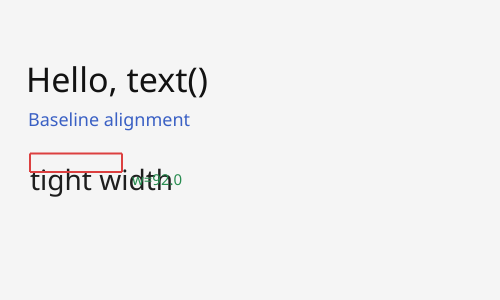
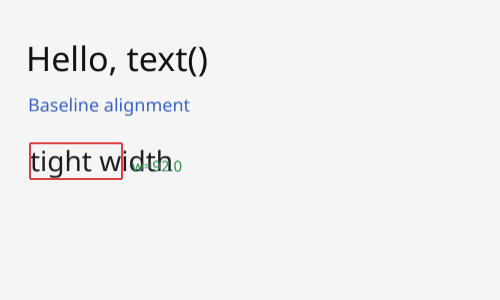
more iterations

Changed region(s): [[0.06, 0.15, 0.42, 0.45], [0.06, 0.45, 0.39, 0.66]]

diff --git a/apps/deno-notebooks/tools/p5_deno_shim.ts b/apps/deno-notebooks/tools/p5_deno_shim.ts
@@ -64,6 +64,10 @@ type CreateCanvasFn = (w: number, h: number) => {
   dispose?: () => void;
 };
 
+type CanvasFontsLike = {
+  register: (pathOrData: string | Uint8Array, alias?: string) => void;
+};
+
 // ─── SimpleEventTarget ───────────────────────────────────────────────────
 
 class SimpleEventTarget {
@@ -427,6 +431,62 @@ class MockDomElement {
 // document.createElement('canvas'), gets a 2D context, and draws through it.
 
 let _createCanvasFn: CreateCanvasFn | null = null;
+let _bundledNotoBytes: Uint8Array | null = null;
+
+function patchP5TextMetrics(p5Ctor: { prototype?: Record<string, unknown> }): void {
+  const proto = p5Ctor.prototype;
+  if (!proto) return;
+  if ((proto as { __textMetricsPatched?: boolean }).__textMetricsPatched) return;
+
+  const originalTextAscent = typeof proto.textAscent === "function"
+    ? proto.textAscent as (...args: unknown[]) => unknown
+    : null;
+  const originalTextDescent = typeof proto.textDescent === "function"
+    ? proto.textDescent as (...args: unknown[]) => unknown
+    : null;
+
+  const getMetrics = (self: Record<string, unknown>, sample: string): TextMetrics | null => {
+    const direct = self.drawingContext as CanvasRenderingContext2D | undefined;
+    if (direct?.measureText) return direct.measureText(sample);
+    const renderer = self._renderer as { drawingContext?: CanvasRenderingContext2D } | undefined;
+    if (renderer?.drawingContext?.measureText) return renderer.drawingContext.measureText(sample);
+    return null;
+  };
+
+  proto.textAscent = function (this: Record<string, unknown>, text?: unknown): number {
+    const sample = text === undefined ? "Mg" : String(text);
+    const metrics = getMetrics(this, sample);
+    if (metrics) {
+      const asc = Number(metrics.actualBoundingBoxAscent);
+      if (Number.isFinite(asc) && asc > 0) return asc;
+      const fallback = Number(metrics.fontBoundingBoxAscent);
+      if (Number.isFinite(fallback) && fallback > 0) return fallback;
+    }
+    if (originalTextAscent) {
+      const fallback = Number(originalTextAscent.call(this, text));
+      if (Number.isFinite(fallback) && fallback > 0) return fallback;
+    }
+    return 0;
+  };
+
+  proto.textDescent = function (this: Record<string, unknown>, text?: unknown): number {
+    const sample = text === undefined ? "Mg" : String(text);
+    const metrics = getMetrics(this, sample);
+    if (metrics) {
+      const desc = Number(metrics.actualBoundingBoxDescent);
+      if (Number.isFinite(desc) && desc > 0) return desc;
+      const fallback = Number(metrics.fontBoundingBoxDescent);
+      if (Number.isFinite(fallback) && fallback > 0) return fallback;
+    }
+    if (originalTextDescent) {
+      const fallback = Number(originalTextDescent.call(this, text));
+      if (Number.isFinite(fallback) && fallback > 0) return fallback;
+    }
+    return 0;
+  };
+
+  (proto as { __textMetricsPatched?: boolean }).__textMetricsPatched = true;
+}
 
 class P5CanvasShim extends (CanvasBase as new () => object) {
   // @gfx/canvas backing
@@ -809,6 +869,21 @@ export async function setupP5Deno(
   console.log("Loading @gfx/canvas (FFI/Skia)...");
   const canvasMod = await import("@gfx/canvas");
   _createCanvasFn = canvasMod.createCanvas as unknown as CreateCanvasFn;
+  {
+    const maybeFonts = (canvasMod as Record<string, unknown>).Fonts as CanvasFontsLike | undefined;
+    if (maybeFonts?.register) {
+      const bundledNotoPath = new URL("../assets/fonts/NotoSans-Regular.ttf", import.meta.url);
+      try {
+        if (!_bundledNotoBytes) {
+          _bundledNotoBytes = await Deno.readFile(bundledNotoPath);
+        }
+        maybeFonts.register(_bundledNotoBytes, "Noto Sans");
+        console.log("Registered bundled font: Noto Sans");
+      } catch (err) {
+        console.warn(`Failed to register bundled font ${bundledNotoPath}:`, err);
+      }
+    }
+  }
   console.log("@gfx/canvas loaded!");
 
   // 2. Set window dimensions so p5 can read them
@@ -820,6 +895,7 @@ export async function setupP5Deno(
   const p5Module = await import("p5");
   const p5 = p5Module.default;
   (p5 as unknown as Record<string, boolean>).disableFriendlyErrors = true;
+  patchP5TextMetrics(p5 as unknown as { prototype?: Record<string, unknown> });
   console.log("p5.js loaded!");
 
   // 4. GPU setup

diff --git a/apps/deno-notebooks/tools/p5gpu.ts b/apps/deno-notebooks/tools/p5gpu.ts
@@ -51,6 +51,7 @@ interface DrawState {
   textFontFamily: string;
   textSize: number;
   textLeading: number;
+  textLeadingSet: boolean;
   textAlignH: "left" | "center" | "right";
   textAlignV: "top" | "center" | "bottom" | "alphabetic";
   textStyle: "normal" | "italic" | "bold" | "bold italic";
@@ -168,6 +169,7 @@ function cloneState(state: DrawState): DrawState {
     textFontFamily: state.textFontFamily,
     textSize: state.textSize,
     textLeading: state.textLeading,
+    textLeadingSet: state.textLeadingSet,
     textAlignH: state.textAlignH,
     textAlignV: state.textAlignV,
     textStyle: state.textStyle,
@@ -291,6 +293,7 @@ function createDefaultState(): DrawState {
     textFontFamily: "Noto Sans",
     textSize: 12,
     textLeading: 12 * 1.275,
+    textLeadingSet: false,
     textAlignH: "left",
     textAlignV: "alphabetic",
     textStyle: "normal",
@@ -842,7 +845,7 @@ export class P5GPU {
     if (size === undefined) return this._state.textSize;
     const nextSize = Math.max(1, toNumber(size, this._state.textSize));
     this._state.textSize = nextSize;
-    if (!Number.isFinite(this._state.textLeading) || this._state.textLeading <= 0) {
+    if (!this._state.textLeadingSet) {
       this._state.textLeading = nextSize * 1.275;
     }
   }
@@ -850,6 +853,7 @@ export class P5GPU {
   textLeading(leading?: number): number | void {
     if (leading === undefined) return this._state.textLeading;
     this._state.textLeading = Math.max(1, toNumber(leading, this._state.textLeading));
+    this._state.textLeadingSet = true;
   }
 
   textStyle(style?: unknown): string | void {
@@ -995,21 +999,7 @@ export class P5GPU {
       else if (this._state.textAlignH === "right") tx -= layout.tightWidth;
     }
 
-    let baselineY = ty;
-    switch (this._state.textAlignV) {
-      case "top":
-        baselineY += layout.ascent;
-        break;
-      case "center":
-        baselineY += layout.ascent - layout.totalHeight * 0.5;
-        break;
-      case "bottom":
-        baselineY += layout.ascent - layout.totalHeight;
-        break;
-      case "alphabetic":
-      default:
-        break;
-    }
+    const layoutTopY = this._resolveTextTopY(ty, height, layout);
 
     const blend = this._currentBlendMode();
     const fillColor: ColorTuple = this._state.fillSet ? this._effectiveFillColor() : [0, 0, 0, 1];
@@ -1023,7 +1013,7 @@ export class P5GPU {
       if (!atlasGlyph) continue;
 
       const gx = tx + glyph.x + atlasGlyph.left;
-      const gy = baselineY + glyph.y - atlasGlyph.top;
+      const gy = layoutTopY + glyph.y - atlasGlyph.top;
 
       if (drawStroke) {
         this._emitTextStroke(gx, gy, atlasGlyph, strokeColor, strokeOffset, blend);
@@ -1738,28 +1728,46 @@ export class P5GPU {
       else if (this._state.textAlignH === "right") tx += width - measureW;
     }
 
-    let baselineY = ty;
-    switch (this._state.textAlignV) {
-      case "top":
-        baselineY += layout.ascent;
-        break;
-      case "center":
-        baselineY += layout.ascent - layout.totalHeight * 0.5;
-        break;
-      case "bottom":
-        baselineY += layout.ascent - layout.totalHeight;
-        break;
-      case "alphabetic":
-      default:
-        break;
-    }
+    const layoutTopY = this._resolveTextTopY(ty, height, layout);
 
     return {
       x: tx,
-      y: baselineY - layout.ascent,
+      y: layoutTopY,
       w: measureW,
       h: layout.totalHeight,
     };
+  }
+
+  private _resolveTextTopY(
+    y: number,
+    boxHeight: number | null,
+    layout: Pick<TextLayoutResult, "ascent" | "totalHeight" | "lineCount">,
+  ): number {
+    if (boxHeight !== null) {
+      const h = Math.max(0, boxHeight);
+      switch (this._state.textAlignV) {
+        case "center":
+          return y + (h - layout.totalHeight) * 0.5;
+        case "bottom":
+          return y + (h - layout.totalHeight);
+        case "alphabetic":
+        case "top":
+        default:
+          return y;
+      }
+    }
+
+    switch (this._state.textAlignV) {
+      case "top":
+        return y;
+      case "center":
+        return y - layout.totalHeight * 0.5;
+      case "bottom":
+        return y - layout.totalHeight;
+      case "alphabetic":
+      default:
+        return y - layout.ascent;
+    }
   }
 
   private _emitTextStroke(
